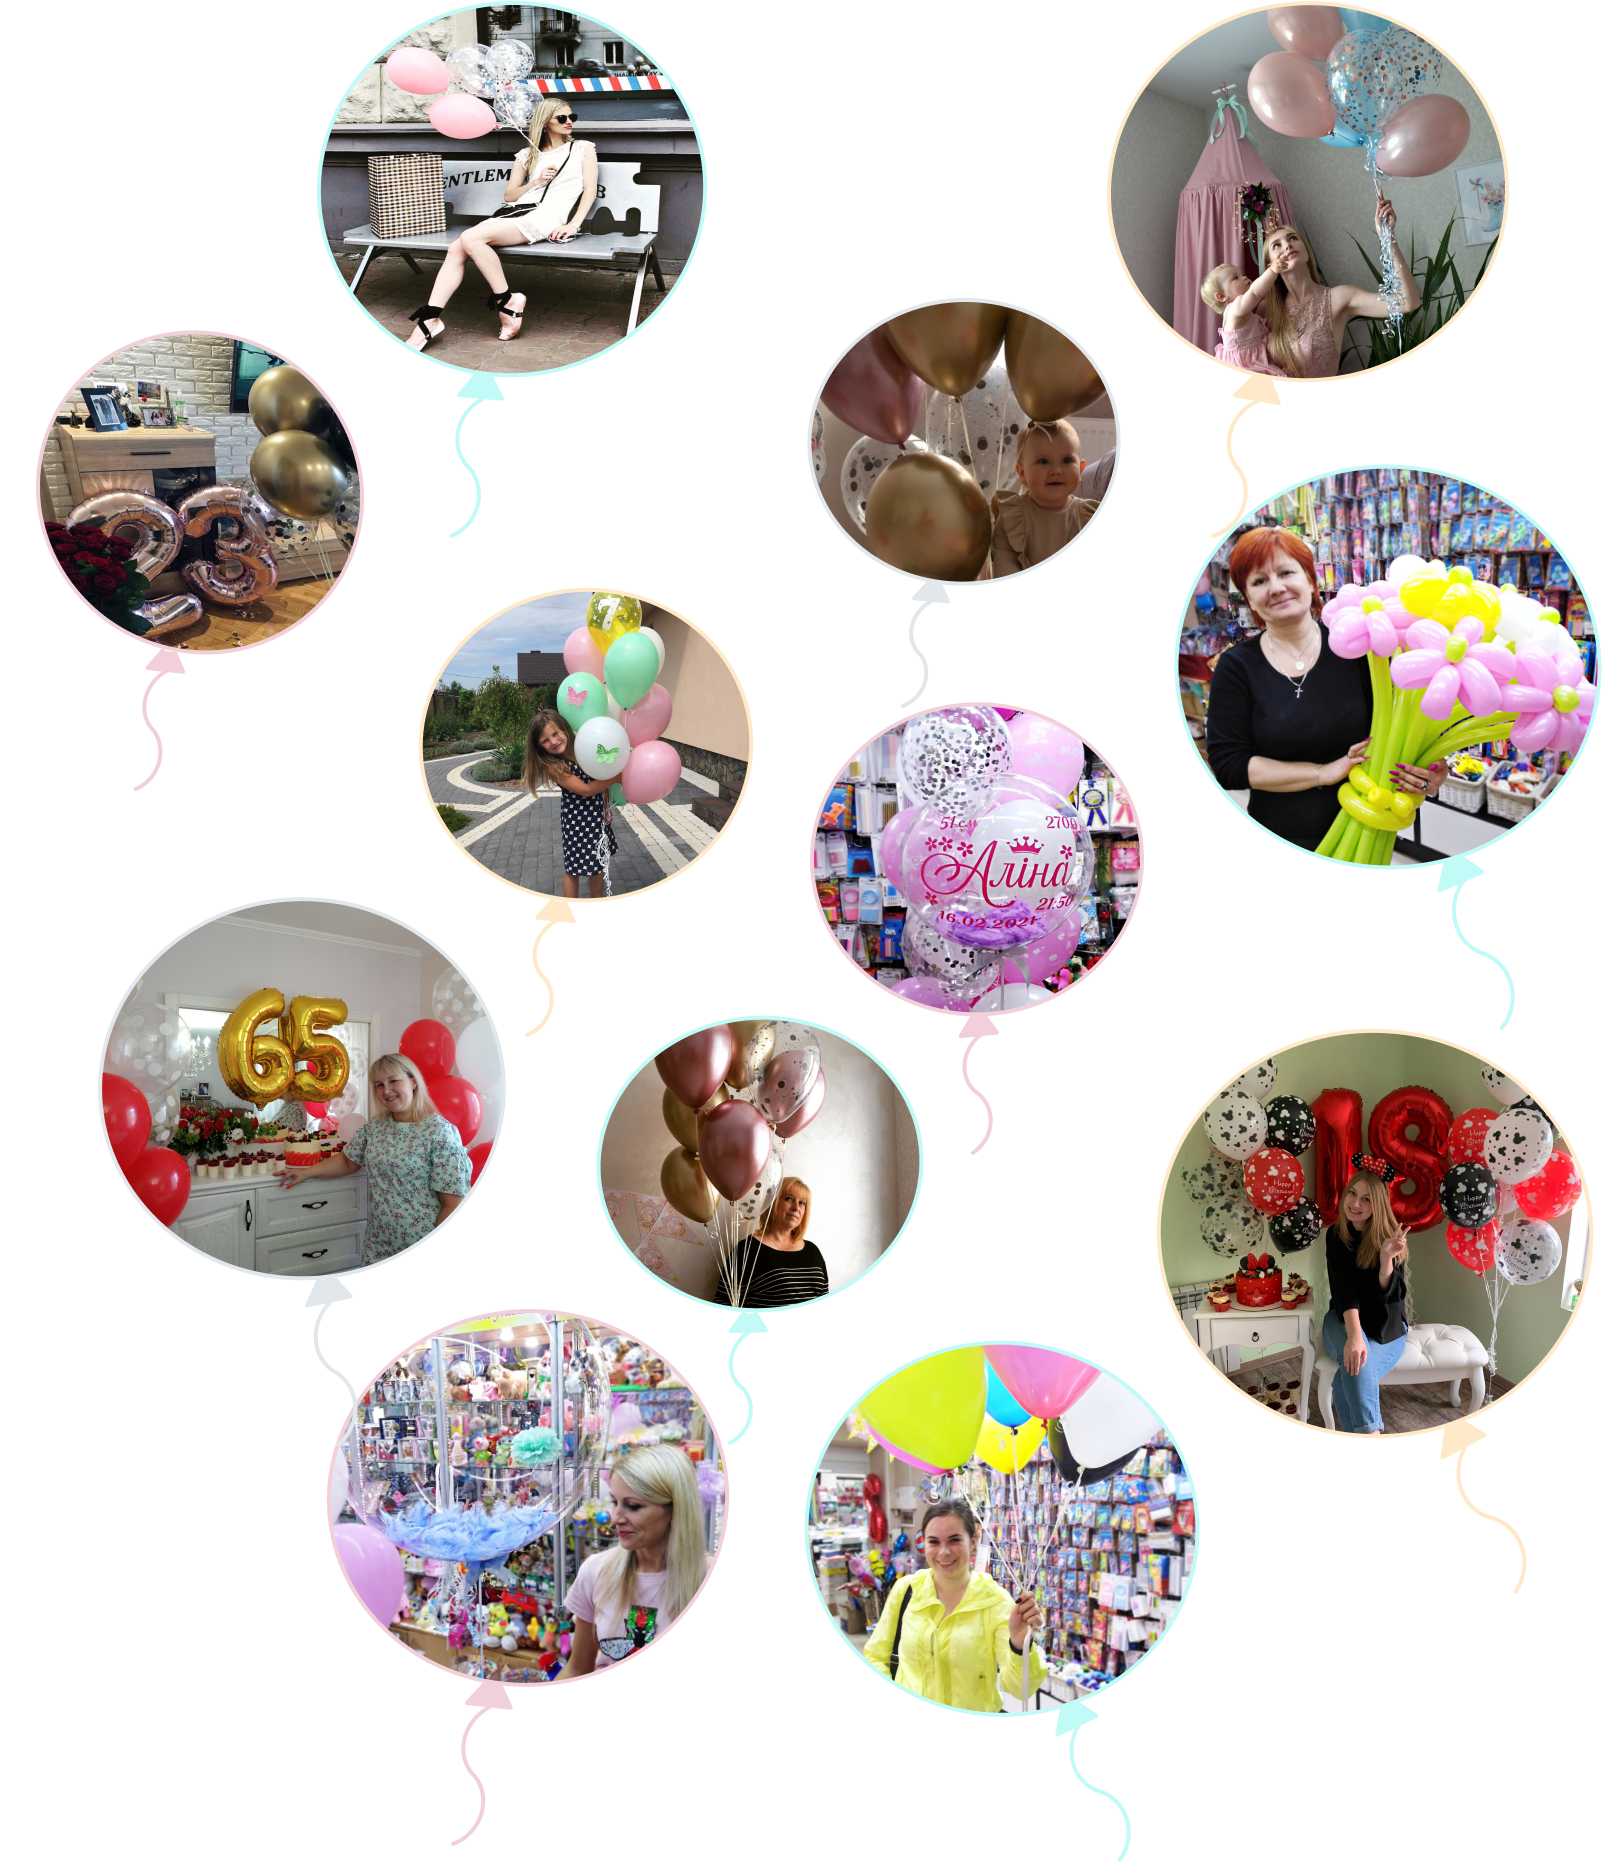
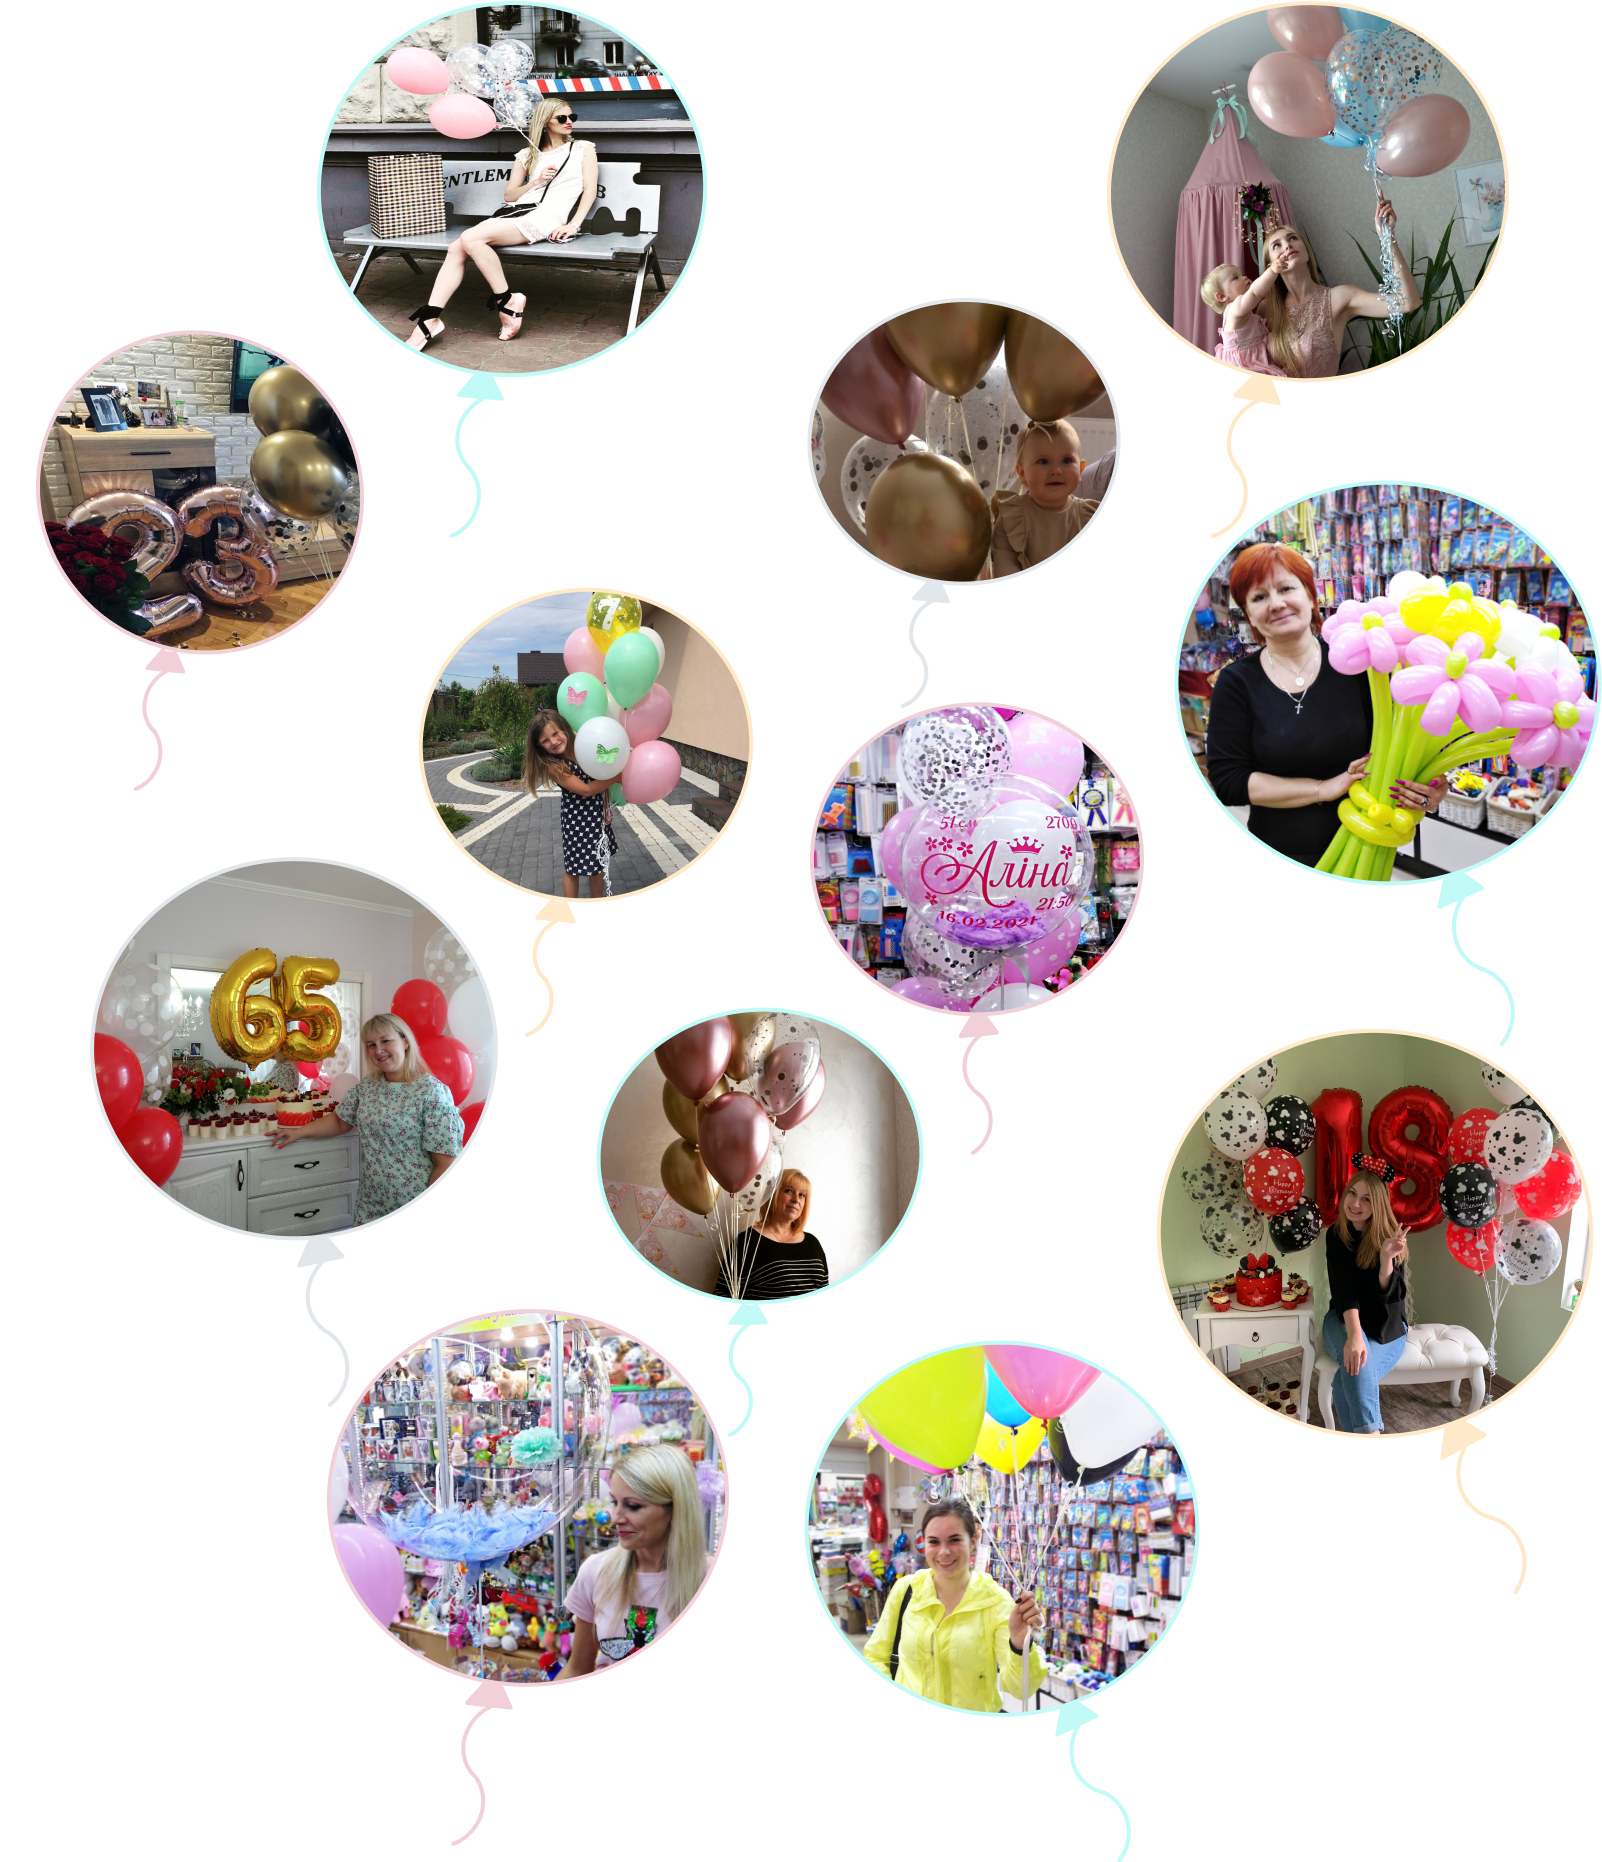
Gallery section balloons

diff --git a/sass/layouts/_gallery.scss b/sass/layouts/_gallery.scss
@@ -16,7 +16,7 @@
 
 .photo-gallery {
     // position: relative;
-    // outline: 1px solid tomato;
+    outline: 1px solid tomato;
     // height: inherit;
 
     &__caption {
@@ -41,31 +41,29 @@
         height: 1092px;
         background-image: url('/images/index/png/gallery_clouds_mob.png');
         z-index: -1;
-        // outline: 1px solid tomato;
+        outline: 1px solid tomato;
 
         // Облака качаются влево-вправо
-        animation: swing 20s linear infinite;
-        /* Установим линейную анимацию и 5 секунд длительности */
+        // animation: swing 20s linear infinite;
+        // @keyframes swing {
 
-        @keyframes swing {
+        //     0%,
+        //     100% {
+        //         transform: translateX(0);
+        //     }
 
-            0%,
-            100% {
-                transform: translateX(0);
-            }
+        //     25% {
+        //         transform: translateX(-20px);
+        //     }
 
-            25% {
-                transform: translateX(-20px);
-            }
+        //     50% {
+        //         transform: translateX(20px);
+        //     }
 
-            50% {
-                transform: translateX(20px);
-            }
-
-            75% {
-                transform: translateX(-10px);
-            }
-        }
+        //     75% {
+        //         transform: translateX(-10px);
+        //     }
+        // }
 
         @media screen and (min-width: 834px) {
             margin-top: -24px;
@@ -91,55 +89,29 @@
     &__balloons {
         position: absolute;
         margin-top: -1860px;
-        margin-left: -33px;
+        margin-left: -816px;
         width: 1600px;
         height: 1860px;
-        background-image: url('/images/index/png/gallery_balloons_mac.png');
-
-        // animation: swing 5s ease infinite;
-        // animation: fly 5s ease infinite;
+        // background-image: url('/images/index/png/gallery_balloons_mac.png');
+        // animation: fly 15s cubic-bezier(0.25, 0.1, 0.25, 1) infinite;
 
         // @keyframes fly {
-        //     0% {
+
+        //     0%,
+        //     100% {
         //         transform: translateY(0);
         //     }
 
-        //     100% {
+        //     50% {
         //         transform: translateY(50px);
         //     }
         // }
-
-        animation: fly 15s cubic-bezier(0.25, 0.1, 0.25, 1) infinite;
-
-        @keyframes fly {
-
-            0%,
-            100% {
-                transform: translateY(0);
-            }
-
-            50% {
-                transform: translateY(50px);
-            }
-        }
     }
 
     // &__list {}
 
     &__item {
         position: absolute;
-        // animation: swing 20s ease infinite;
-
-        // @keyframes fly {
-        //     0% {
-        //         transform: translateY(0);
-        //     }
-
-        //     100% {
-        //         transform: translateY(50px);
-        //     }
-        // }
-
 
         &--1 {
             top: 0px;

diff --git a/index.html b/index.html
@@ -488,7 +488,23 @@
                     </ul> -->
                 </div>
 
-                <div class="photo-gallery__balloons"></div>
+                <!-- <div class="photo-gallery__balloons"></div>  -->
+
+                <picture class="photo-gallery__balloons">
+                    <source srcset="/images/index/webp/gallery_balloons_mac.webp 1x, /images/index/webp/gallery_balloons_mac@2x.webp 2x" media="(min-width: 1728px)" type="image/webp">   
+                    <source srcset="/images/index/png/gallery_balloons_mac.png 1x, /images/index/png/gallery_balloons_mac@2x.png 2x" media="(min-width: 1728px)">
+                    
+                    <source srcset="/images/index/webp/gallery_balloons_desk.webp 1x, /images/index/webp/gallery_balloons_desk@2x.webp 2x" media="(min-width: 1440px)" type="image/webp">   
+                    <source srcset="/images/index/png/gallery_balloons_desk.png 1x, /images/index/png/gallery_balloons_desk@2x.png 2x" media="(min-width: 1440px)">
+
+                    <source srcset="/images/index/webp/gallery_balloons_tab.webp 1x, /images/index/webp/gallery_balloons_tab@2x.webp 2x" media="(min-width: 834px)" type="image/webp">   
+                    <source srcset="/images/index/png/gallery_balloons_tab.png 1x, /images/index/png/gallery_balloons_tab@2x.png 2x" media="(min-width: 834px)">
+                    
+                    <source srcset="/images/index/webp/gallery_balloons_mob.webp 1x, /images/index/webp/gallery_balloons_mob@2x.webp 2x" media="(min-width: 390px)" type="image/webp">   
+                    <source srcset="/images/index/png/gallery_balloons_mob.png 1x, /images/index/png/gallery_balloons_mob@2x.png 2x" media="(min-width: 390px)">
+
+                    <img src="/images/index/png/gallery_balloons_mob.png" alt="Гелієві кульки" loading="lazy">
+                </picture>
 
             </div>
         </section>

diff --git a/css/main.css b/css/main.css
@@ -2433,6 +2433,9 @@ body {
   }
 }
 
+.photo-gallery {
+  outline: 1px solid tomato;
+}
 .photo-gallery__caption {
   margin-left: 0;
 }
@@ -2456,22 +2459,7 @@ body {
   height: 1092px;
   background-image: url("/images/index/png/gallery_clouds_mob.png");
   z-index: -1;
-  animation: swing 20s linear infinite;
-  /* Установим линейную анимацию и 5 секунд длительности */
-}
-@keyframes swing {
-  0%, 100% {
-    transform: translateX(0);
-  }
-  25% {
-    transform: translateX(-20px);
-  }
-  50% {
-    transform: translateX(20px);
-  }
-  75% {
-    transform: translateX(-10px);
-  }
+  outline: 1px solid tomato;
 }
 @media screen and (min-width: 834px) {
   .photo-gallery__clouds {
@@ -2499,19 +2487,9 @@ body {
 .photo-gallery__balloons {
   position: absolute;
   margin-top: -1860px;
-  margin-left: -33px;
+  margin-left: -816px;
   width: 1600px;
   height: 1860px;
-  background-image: url("/images/index/png/gallery_balloons_mac.png");
-  animation: fly 15s cubic-bezier(0.25, 0.1, 0.25, 1) infinite;
-}
-@keyframes fly {
-  0%, 100% {
-    transform: translateY(0);
-  }
-  50% {
-    transform: translateY(50px);
-  }
 }
 .photo-gallery__item {
   position: absolute;
